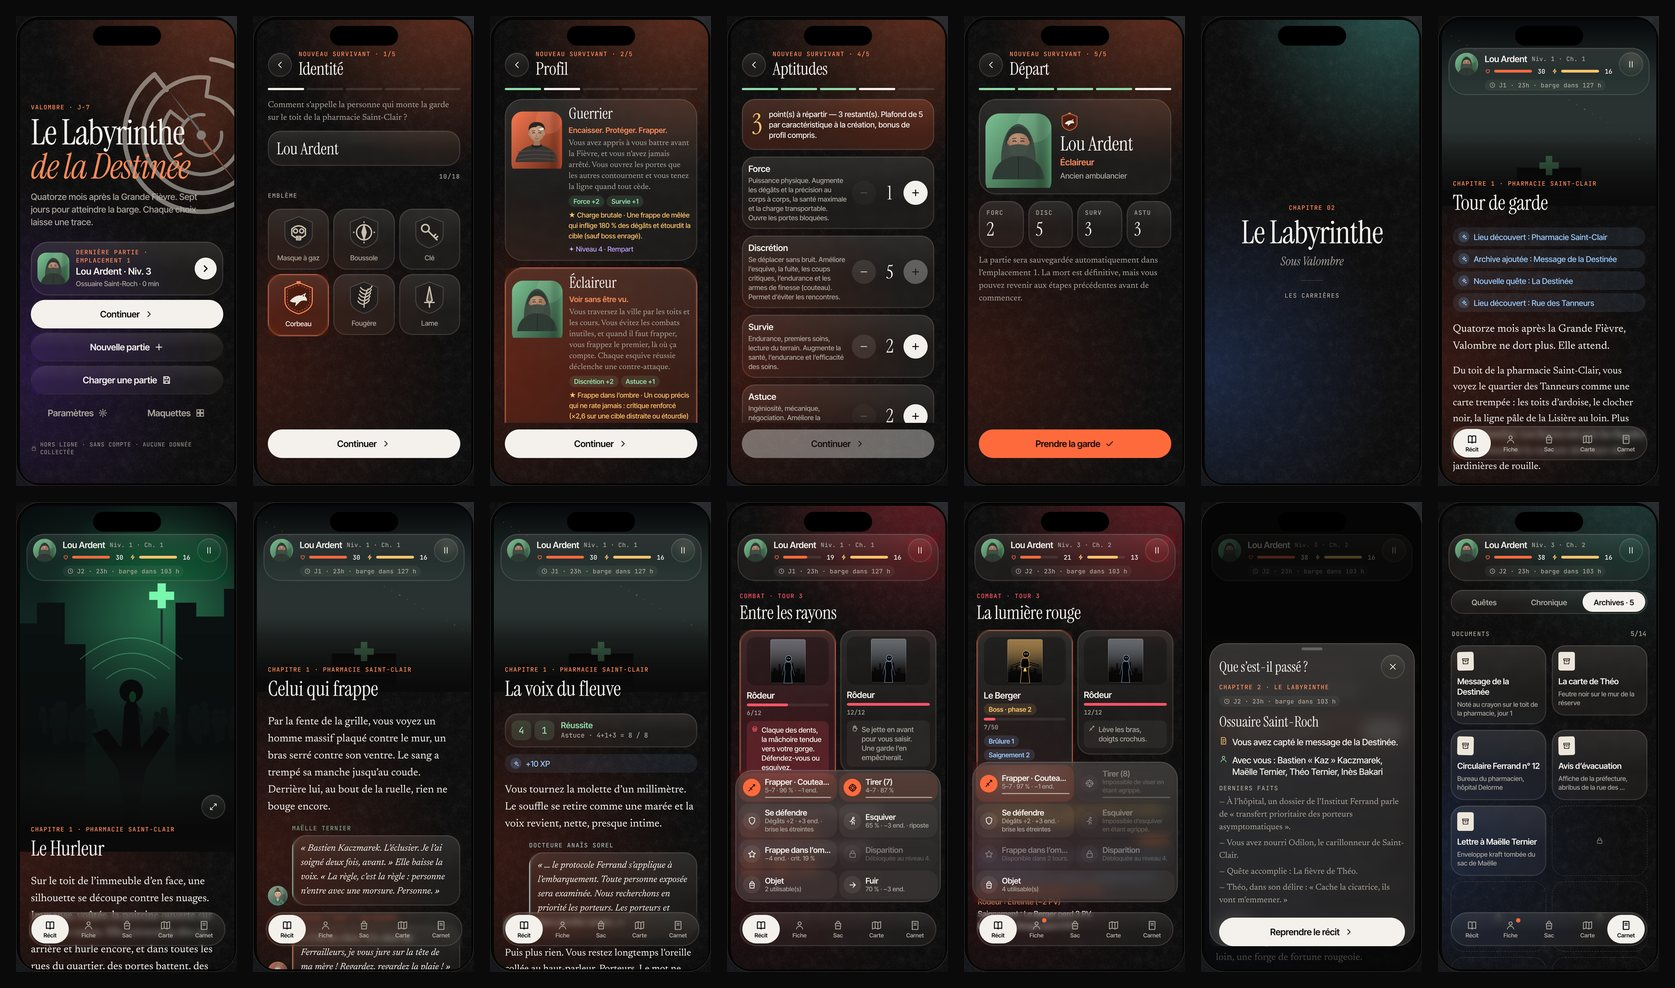
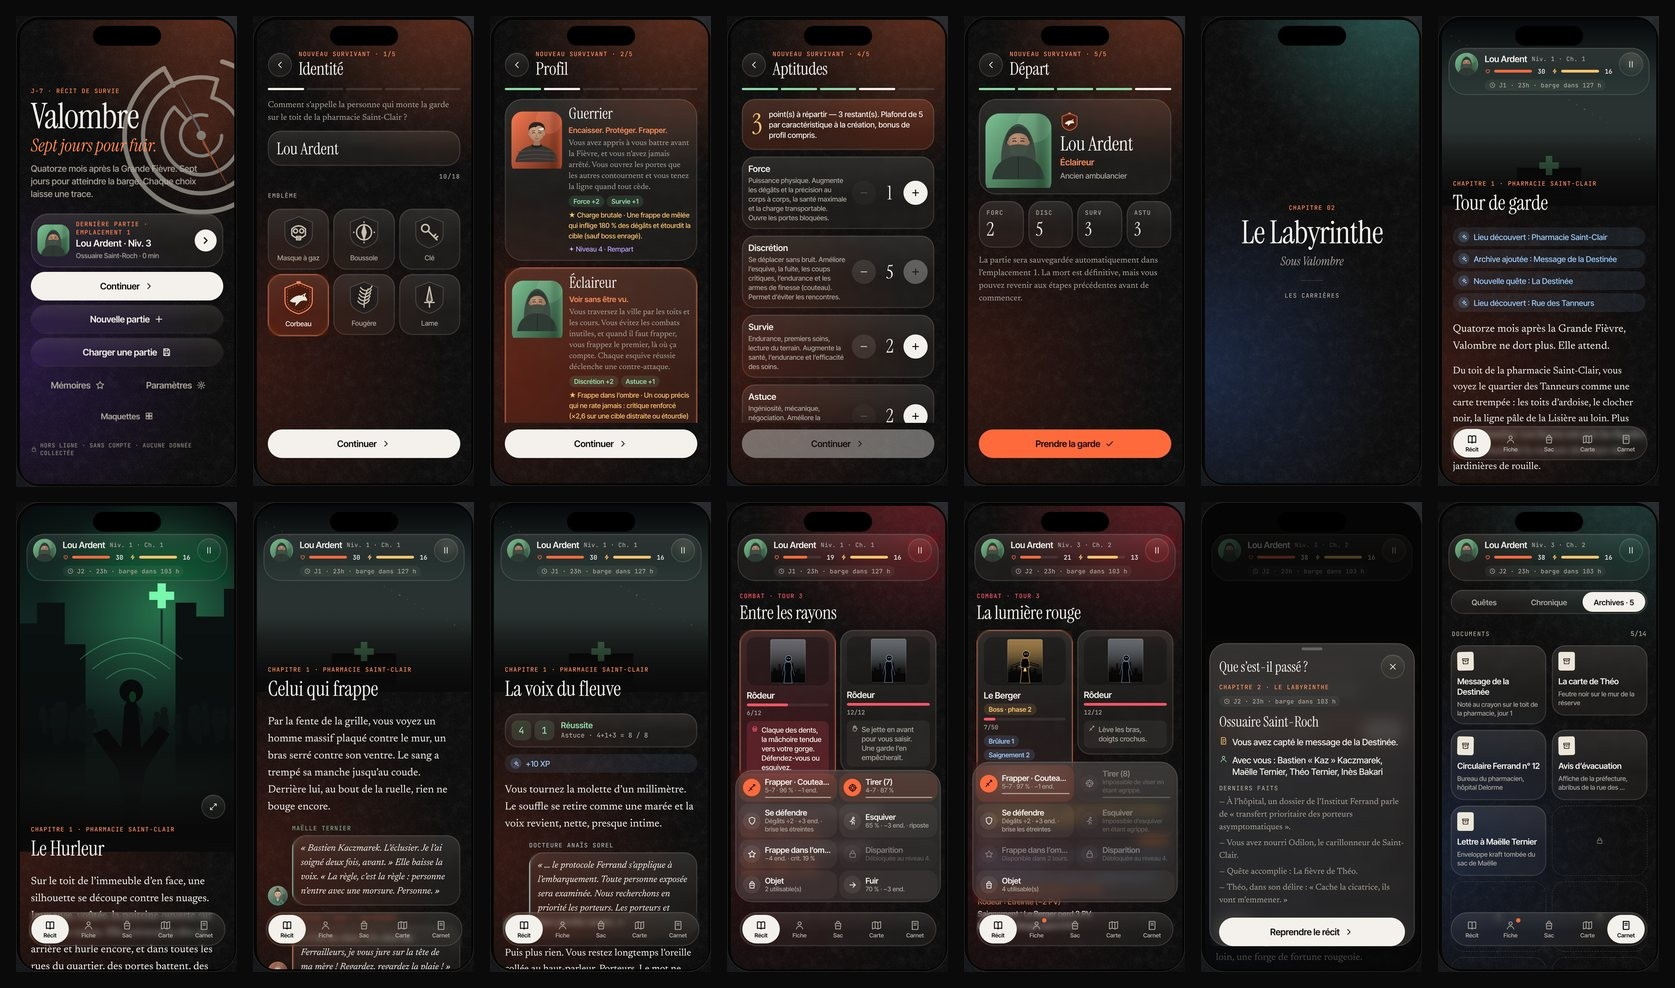
L'application s'appelle désormais Valombre
- Nom affiché (app.json), slug, nom du paquet, écran titre FR/EN
  (« Valombre · Sept jours pour fuir. »), À propos, README
- Vidéo : nom et appel final « Entrez dans Valombre » ; captures App Store
- Maquettes de l'écran titre (FR, EN) et planche du README régénérées
- Inchangés volontairement : identifiant de bundle et préfixe de stockage
  (sauvegardes des joueurs conservées)

Claude-Session: https://claude.ai/code/session_01KTsF7WzWyCV5BcBCv3akYP

Changed region(s): [[0.0, 0.0607, 0.1552, 0.4251]]

diff --git a/src/screens/TitleScreen.tsx b/src/screens/TitleScreen.tsx
@@ -63,8 +63,9 @@ export function TitleScreen() {
           <Label color={colors.rustBright}>{t('title.kicker')}</Label>
           <Text style={styles.title} accessibilityRole="header" maxFontSizeMultiplier={1.2}>
             {t('title.line1')}
-            {'\n'}
-            <Text style={styles.titleItalic}>{t('title.line2')}</Text>
+          </Text>
+          <Text style={styles.titleItalic} maxFontSizeMultiplier={1.2}>
+            {t('title.line2')}
           </Text>
           <Text style={styles.tag} maxFontSizeMultiplier={MAX_SCALE_UI}>
             {t('title.tagline')}
@@ -116,7 +117,7 @@ const styles = StyleSheet.create({
   emblemWrap: { position: 'absolute', top: 40, right: -110, opacity: 0.55 },
   wrap: { flexGrow: 1, paddingTop: space.xxxl, paddingBottom: space.lg },
   title: { fontFamily: fonts.title, fontSize: 64, lineHeight: 62, color: colors.text, letterSpacing: -1.5, marginTop: space.sm },
-  titleItalic: { fontFamily: fonts.titleItalic, color: colors.rustBright },
+  titleItalic: { fontFamily: fonts.titleItalic, fontSize: 32, lineHeight: 38, color: colors.rustBright, marginTop: 2 },
   tag: { fontFamily: fonts.ui, fontSize: 16, lineHeight: 23, color: colors.textDim, marginTop: space.md, maxWidth: 340 },
   continue: { flexDirection: 'row', alignItems: 'center', gap: space.md, padding: space.md },
   play: { width: 40, height: 40, borderRadius: 20, backgroundColor: colors.text, alignItems: 'center', justifyContent: 'center' },

diff --git a/promo/stage/timeline.js b/promo/stage/timeline.js
@@ -9,7 +9,7 @@
  * 15,6 – 18,8 Relations   « Ils se souviennent de vous. »    fiche : portraits, relations
  * 18,8 – 22,3 Monde       « Un monde qui garde vos traces. » trois téléphones : carte, archives, atelier
  * 22,3 – 25,8 Récit       plongée dans l'écran              carton de chapitre plein cadre, « 15 chapitres · 6 fins »
- * 25,8 – 30,0 Conclusion  icône, nom, « Entrez dans le Labyrinthe »
+ * 25,8 – 30,0 Conclusion  icône, nom, « Entrez dans Valombre »
  *
  * Les écrans sont des plans filmés dans l'application (promo/clips.mjs) :
  * `at` = instant d'apparition dans la vidéo, `from` = instant de départ dans le plan.
@@ -49,9 +49,9 @@ export const STATS = { in: 24.1, out: 25.7, text: T('15 chapitres · 6 fins · 3
 
 export const OUTRO = {
   in: 25.85,
-  brand: T('Le Labyrinthe<br><em>de la Destinée</em>', 'The Labyrinth<br><em>of Destiny</em>'),
+  brand: T('Valombre<br><em>Sept jours pour fuir.</em>', 'Valombre<br><em>Seven days to escape.</em>'),
   tagline: T('Hors ligne · Sans pub · Sans compte', 'Offline · No ads · No account'),
-  cta: T('Entrez dans le Labyrinthe', 'Enter the Labyrinth'),
+  cta: T('Entrez dans Valombre', 'Enter Valombre'),
   langs: T('Français · English', 'English · Français'),
 };
 

diff --git a/promo/stage/stage.css b/promo/stage/stage.css
@@ -80,7 +80,7 @@ html, body { width: 886px; height: 1920px; background: var(--bg); overflow: hidd
 #outro { position: absolute; inset: 0; display: flex; flex-direction: column; align-items: center; justify-content: center; opacity: 0; }
 #icon { width: 236px; height: 236px; border-radius: 54px; box-shadow: 0 30px 90px rgba(255, 106, 61, 0.28), 0 0 0 1px rgba(255, 255, 255, 0.08); }
 .brand { margin-top: 64px; font: 400 112px/0.95 'Instrument Serif'; color: var(--text); text-align: center; letter-spacing: -2.5px; }
-.brand em { font-style: italic; color: var(--ember-soft); }
+.brand em { display: block; margin-top: 18px; font-size: 0.5em; line-height: 1.1; letter-spacing: -1px; font-style: italic; color: var(--ember-soft); }
 #tagline { margin-top: 44px; color: var(--dim); font-size: 24px; letter-spacing: 5px; }
 .cta { margin-top: 120px; padding: 30px 64px; border-radius: 999px; background: var(--text); color: var(--bg); font: 600 40px 'Inter Tight'; letter-spacing: -0.5px; }
 #langs { margin-top: 36px; color: var(--dim); font-size: 21px; letter-spacing: 4px; }

diff --git a/src/i18n/fr.ts b/src/i18n/fr.ts
@@ -8,9 +8,9 @@ export const FR: Record<string, string> = {
   'common.pause': 'Pause',
 
   // Écran titre
-  'title.kicker': 'Valombre · J−7',
-  'title.line1': 'Le Labyrinthe',
-  'title.line2': 'de la Destinée',
+  'title.kicker': 'J−7 · Récit de survie',
+  'title.line1': 'Valombre',
+  'title.line2': 'Sept jours pour fuir.',
   'title.tagline': 'Quatorze mois après la Grande Fièvre. Sept jours pour atteindre la barge. Chaque choix laisse une trace.',
   'title.continue': 'Continuer',
   'title.new': 'Nouvelle partie',

diff --git a/src/i18n/en.ts b/src/i18n/en.ts
@@ -8,9 +8,9 @@ export const EN: Record<string, string> = {
   'common.pause': 'Pause',
 
   // Title
-  'title.kicker': 'Valombre · D−7',
-  'title.line1': 'The Labyrinth',
-  'title.line2': 'of Destiny',
+  'title.kicker': 'D−7 · A survival story',
+  'title.line1': 'Valombre',
+  'title.line2': 'Seven days to escape.',
   'title.tagline': 'Fourteen months after the Great Fever. Seven days to reach the barge. Every choice leaves a mark.',
   'title.continue': 'Continue',
   'title.new': 'New game',

diff --git a/promo/stage/stills.js b/promo/stage/stills.js
@@ -39,7 +39,7 @@ const DEFS = [
   {
     aura: ['#FF6A3D', '#3B1E6E'],
     kicker: T('Hors ligne · Sans pub · Sans compte', 'Offline · No ads · No account'),
-    text: T('Entrez dans<br><em>le Labyrinthe.</em>', 'Enter<br><em>the Labyrinth.</em>'),
+    text: T('Entrez dans<br><em>Valombre.</em>', 'Enter<br><em>Valombre.</em>'),
     main: { clip: 'title', ct: 1.0, k: { x: 0, y: 1250, s: 0.6 } },
   },
 ];

diff --git a/src/screens/SettingsScreen.tsx b/src/screens/SettingsScreen.tsx
@@ -190,7 +190,7 @@ export function SettingsScreen() {
 
         <SectionTitle>{t('settings.about')}</SectionTitle>
         <Panel style={{ gap: space.sm }}>
-          <Label>Le Labyrinthe de la Destinée</Label>
+          <Label>Valombre</Label>
           <Text style={type.bodySmall}>{t('settings.privacy')}</Text>
           <Text style={type.bodySmall}>{t('settings.credits')}</Text>
         </Panel>

diff --git a/promo/stage/index.html b/promo/stage/index.html
@@ -2,7 +2,7 @@
 <html lang="fr">
   <head>
     <meta charset="utf-8" />
-    <title>Le Labyrinthe de la Destinée — App Preview</title>
+    <title>Valombre — App Preview</title>
     <link rel="stylesheet" href="stage.css" />
     <link rel="icon" href="data:," />
   </head>

diff --git a/promo/README.md b/promo/README.md
@@ -25,7 +25,7 @@ Le récit suit : **problème → découverte → fonctionnalités → expérienc
 | 15,6 – 18,8 | Relations | « Ils se souviennent *de vous.* » | fiche : portrait, tuiles, défilement jusqu’aux rencontres | pivot opposé |
 | 18,8 – 22,3 | Monde | « Un monde qui garde *vos traces.* » | trois téléphones : **carte** (chemins), **archives** (document ouvert), **atelier** (onglet ouvert) | éventail, dérive latérale |
 | 22,3 – 25,8 | Récit | *15 chapitres · 6 fins · 396 scènes* | carton de chapitre de l’application | plongée : l’écran remplit le cadre |
-| 25,8 – 30,0 | Conclusion | « Le Labyrinthe *de la Destinée* » · *Hors ligne · Sans pub · Sans compte* · **Entrez dans le Labyrinthe** | icône de l’application | apparition mot à mot |
+| 25,8 – 30,0 | Conclusion | « Valombre *Sept jours pour fuir.* » · *Hors ligne · Sans pub · Sans compte* · **Entrez dans Valombre** | icône de l’application | apparition mot à mot |
 
 Chaque chiffre affiché est vrai (validateur : 396 scènes, 6 fins et 4 morts ; 15 chapitres ; aucune connexion,
 publicité ni compte). Les appuis visibles (point + onde) sont les **vrais clics** enregistrés pendant la capture.

diff --git a/README.md b/README.md
@@ -1,4 +1,4 @@
-# Le Labyrinthe de la Destinée
+# Valombre
 
 Jeu mobile narratif solo de survie horrifique post-apocalyptique, **en français et en anglais**, pour iPhone
 (React Native + Expo SDK 57). Entièrement hors ligne : aucun compte, serveur, publicité, achat intégré ni télémétrie.
